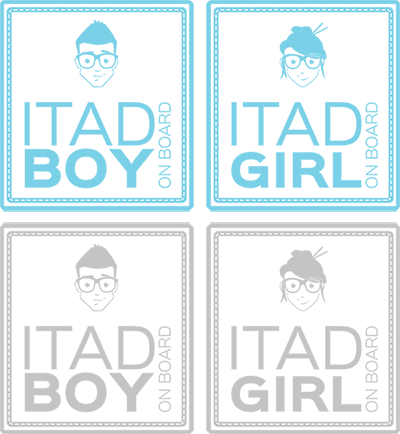
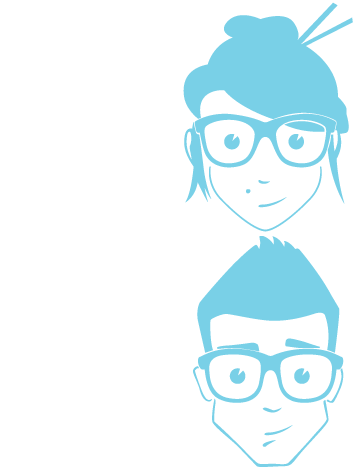
Itad Geek Done

diff --git a/Itad2015/Content/style.css b/Itad2015/Content/style.css
@@ -294,25 +294,26 @@ h4 {
 .itad-gender {
     background-image: url("images/Register/ItadGeek.png");
     background-repeat: no-repeat;
-    width: 194px;
-    height: 210px;
+    width: 179px;
+    height: 234px;
+    cursor:pointer;
 }
 
 
 .itad-girl {
-    background-position: -206px -224px;
+    background-position: 0 0;
 }
 
 .itad-guy {
-    background-position: 0 -224px;
+    background-position: 0 -234px;
 }
 
 .itad-girl.active {
-    background-position: -206px 0;
+    background-position: -178px 0;
 }
 
 .itad-guy.active {
-    background-position: 0 0;
+    background-position: -179px -234px;
 }
 
 .chooseIcon {
